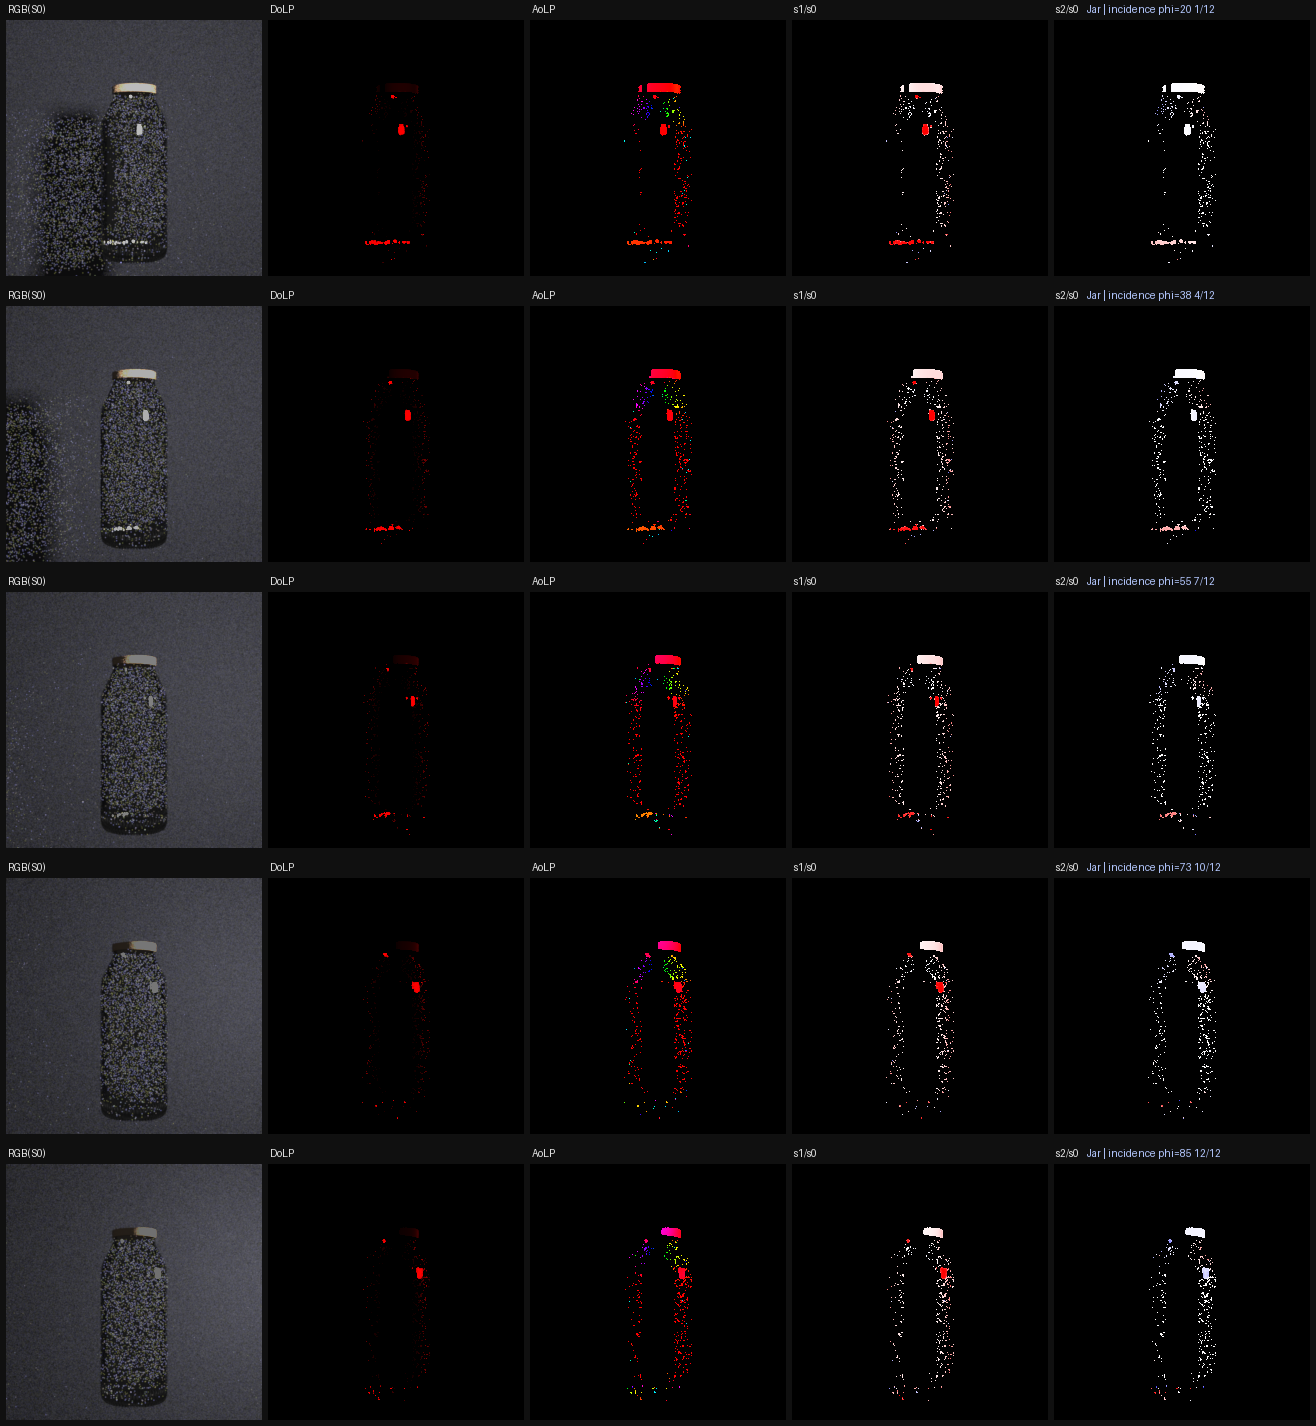
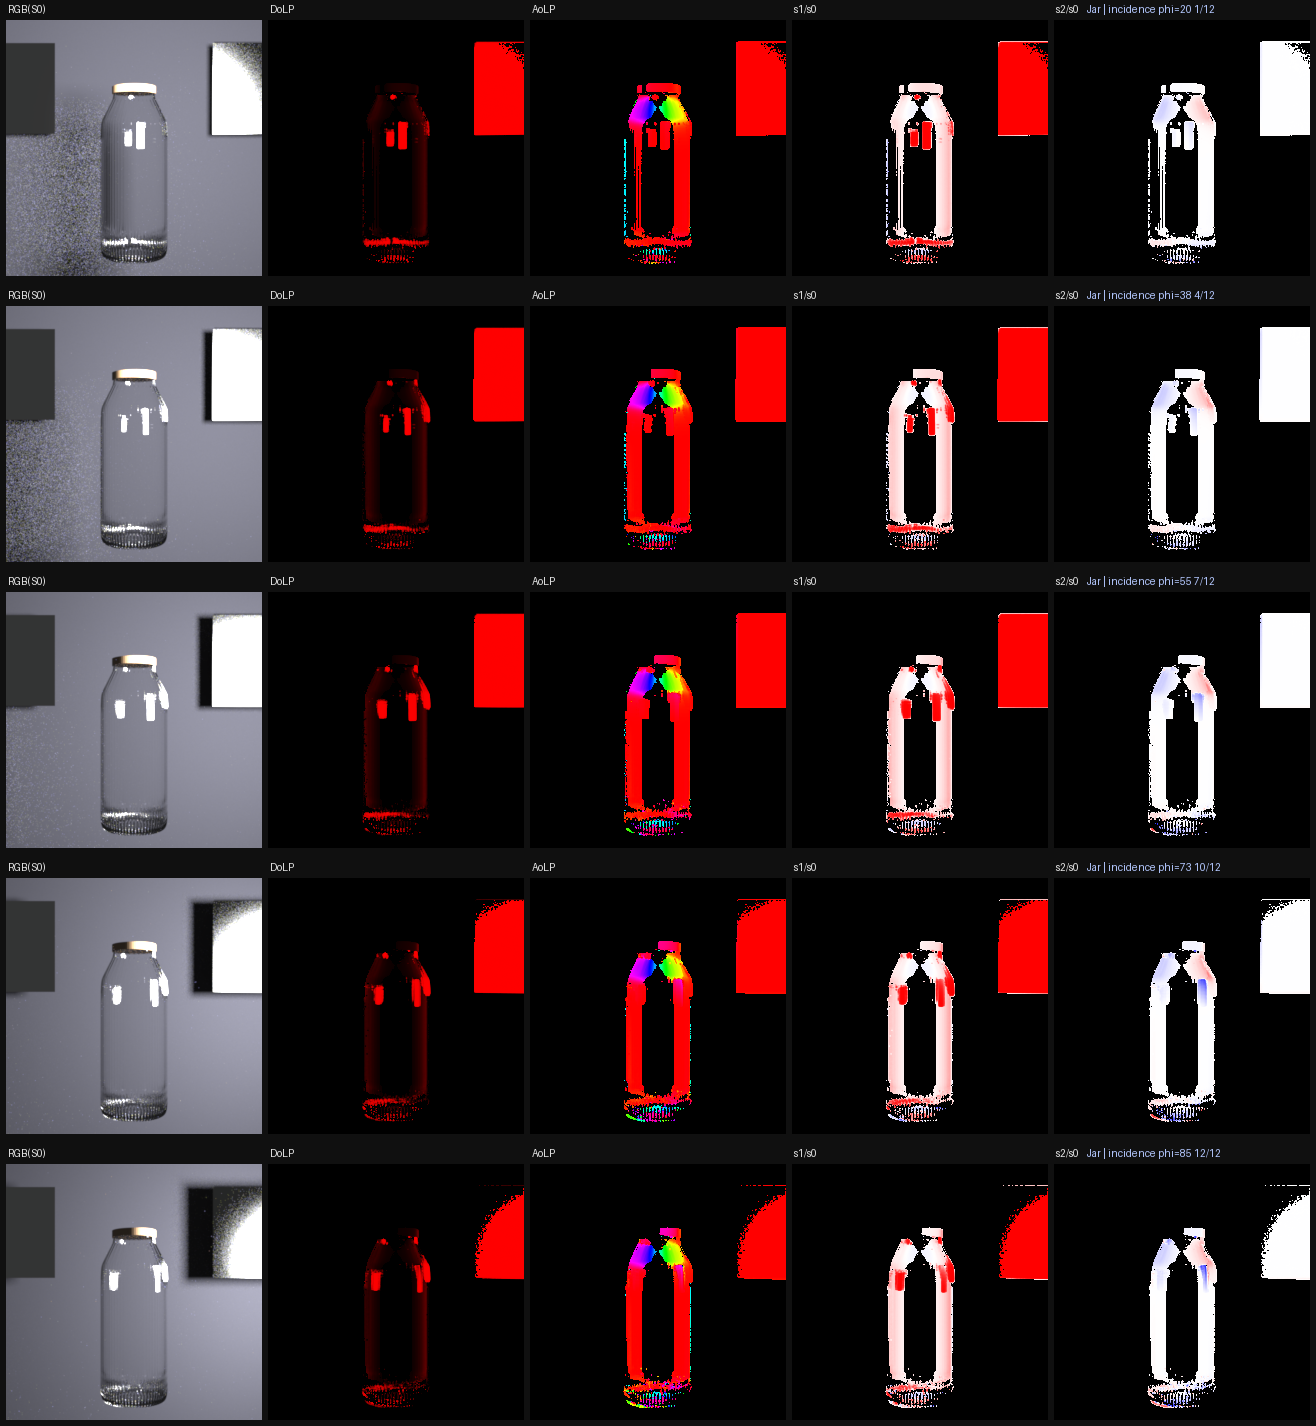
dev_report(0706): polarized_area emitter + polarization witnesses
- New render light: custom polarized_area emitter (emits already-polarized
  light so NEE works) replaces the area+polarizer combo. Curved-glass +
  diffuse-background scenes are dramatically cleaner (fireflies gone); DoLP
  unchanged (0.95). Plugin: modules/mitsuba3/src/emitters/polarized_area.cpp
  (committed in the mitsuba3 fork).
- Background witnesses in every frame: a bare mirror (reflects the polarized
  flash -> shows in DoLP/AoLP) and a mirror behind a fixed polarizer analyzer
  (brightness extinguishes as the illumination polarizer rotates -> proves the
  cast light is polarized and changing).
- Re-rendered all 5 objects x 2 modes with polarized_area + witnesses +
  multi-material at spp8000 (glass 12000).

diff --git a/dev_report/report_2026-07-06_optical_class_polarization.html b/dev_report/report_2026-07-06_optical_class_polarization.html
@@ -42,7 +42,7 @@
 <h2>2. 광학 클래스 요약 — RGB(S0) vs DoLP</h2>
 <figure>
   <img src="images/0706_optclass_summary.png" alt="RGB vs DoLP per optical class" style="max-width:560px;margin:0 auto">
-  <figcaption>대표 프레임 1장씩. RGB(S0)는 각 재질의 실제 색을 담는다(foodbox 인쇄 라벨, lampshade 분홍 직물 — glb UV로 베이크 텍스처 매핑). DoLP: <b>금속(tap)≈0.9 강함, 유리(jar) specular만, diffuse는 pplastic 코팅으로 약하게(foodbox~0.2, lampshade~0.06)</b>. 편광 세기가 optical class를 정렬한다. tvstand는 multi-material 분리 후 이 각도에선 나무 상판이 보여 약하지만, 금속 프레임은 metallic=0인데도 conductor로 강편광.</figcaption>
+  <figcaption>대표 프레임 1장씩(배경 wall + 좌우 witness 패치 포함). <code>polarized_area</code> emitter는 NEE가 살아있어 배경·투과 노이즈가 크게 준다. RGB(S0)는 각 재질의 실제 색을 담는다(foodbox 인쇄 라벨, lampshade 분홍 직물 — glb UV로 베이크 텍스처 매핑). DoLP: <b>금속(tap)≈0.9 강함, 유리(jar) specular만, diffuse는 pplastic 코팅으로 약하게(foodbox~0.2, lampshade~0.06)</b>. 편광 세기가 optical class를 정렬한다. tvstand는 multi-material 분리 후 이 각도에선 나무 상판이 보여 약하지만, 금속 프레임은 metallic=0인데도 conductor로 강편광.</figcaption>
 </figure>
 
 <h3>편광 지원 플러그인 (검증 빌드, <code>cuda_ad_spectral_polarized</code>)</h3>
@@ -58,12 +58,12 @@
 <div class="warn"><b>주의</b>: 투과형 microfacet <code>roughdielectric</code>과 <code>plastic</code>/<code>roughplastic</code>은 이 빌드에서 편광 Fresnel을 만들지 못한다(DoLP≡0). 유리는 <code>dielectric</code>(smooth), 도장/plastic/diffuse는 <code>pplastic</code>으로 주입해야 편광이 나온다. <code>render_material_closeups.py</code> 등 dielectric/plastic 주입 경로 점검 필요.</div>
 
 <h2>3. 움직이는 편광 광원 스윕 (오브젝트당 2종)</h2>
-<p>능동 편광 조명 = <b>area emitter + 그 앞의 linear polarizer</b>(delta spot/point는 편광판 투과 불가라 area 필수, polarizer는 emitter보다 크게). 두 모션:</p>
+<p>능동 편광 조명 = <b>커스텀 <code>polarized_area</code> emitter</b>(아래 §6). 배경에는 편광광이 실제로 뿌려지고 변하는지 보이는 <b>witness</b> 2개 — 좌: bare mirror(flash 편광을 반사 → DoLP/AoLP에 나타남), 우: mirror+고정 polarizer analyzer(<b>소광 witness</b>: 조명 편광각이 돌면 밝기가 밝→어둠→밝). 두 모션:</p>
 <ul>
 <li><b>입사각 궤도(orbit)</b>: flash를 오브젝트 주위로 이동(azimuth 20°→85°) → 국소 입사각이 grazing으로. 유리·plastic은 Brewster 부근서 DoLP 상승.</li>
 <li><b>polarizer 회전(polrot)</b>: flash 고정, 조명 polarizer θ 0→180° 회전 → specular 반사의 AoLP가 각도 추종.</li>
 </ul>
-<p>5패널 = RGB(S0) · DoLP · AoLP · s1/s0 · s2/s0. specular 마스크(S0&gt;0.04 &amp; DoLP&gt;0.05). spp8000(유리 16000).</p>
+<p>5패널 = RGB(S0) · DoLP · AoLP · s1/s0 · s2/s0. specular 마스크(S0&gt;0.04 &amp; DoLP&gt;0.05). spp8000(유리 12000). 광원은 <code>polarized_area</code>.</p>
 
 <h3>#1 metal — 수도꼭지</h3>
 <figure><img src="images/0706_optclass_tap_orbit.gif" alt="tap orbit"><figcaption>입사각 궤도. 금속 전면이 조명 편광을 보존해 DoLP≈0.9로 강하게 켜진다.</figcaption></figure>
@@ -96,7 +96,13 @@
 </table>
 <p><b>권장</b>: Infinigen import도 <code>.glb</code>를 source로 참조하고 <code>glb_texture_adapter</code>(또는 그 확장)를 태워서 UV·베이크 텍스처·per-material 분리를 렌더 경로에서 사용하도록 개선. blender export 단계에서 UV 보존 <code>.obj</code>를 쓰는 방법도 있으나, glb 경로 재사용이 기존 계약(OBJ + extracted_material)과 호환되어 더 간단하다.</p>
 
-<h2>6. 결론</h2>
+<h2>6. 광원 개선 — <code>polarized_area</code> emitter 플러그인</h2>
+<p><b>문제</b>: "area emitter + 앞의 <code>polarizer</code> 판" 조합은 편광판이 <b>NEE(직접광 shadow ray)를 막아</b>, 빛이 BSDF 샘플링 경로로만 들어와 고분산 → firefly. 특히 투명 유리는 심했다.</p>
+<p><b>해결</b>: <b>이미 편광된 빛을 직접 방출하는 커스텀 emitter</b>를 작성(<code>modules/mitsuba3/src/emitters/polarized_area.cpp</code>). area.cpp를 복제하고 <code>eval</code>/<code>sample_direction</code>/<code>eval_direction</code>의 <code>depolarizer</code>를 <b><code>theta</code>각 linear-polarizer Mueller</b>(방출방향 <code>si.wi</code> 기준, polarizer BSDF의 frame 레시피 재사용)로 교체. 파라미터 <code>radiance</code>·<code>theta</code>(deg). 별도 편광판 surface가 없어 <b>NEE가 살아있고</b>, 씬도 단순해진다.</p>
+<p><b>효과</b>: 편광은 동일(DoLP 0.95, area+polarizer와 일치)하면서, 곡면 유리+diffuse 배경 씬에서 <b>firefly/grain이 급감</b>. (flat 평판 테스트에선 차이가 작지만 — 그 경우 노이즈가 BSDF 분산 지배 — 실제 오브젝트 씬에서 큰 개선.) 빌드: <code>ninja polarized_area</code> → <code>plugins/polarized_area.so</code>.</p>
+<p>남은 유리 grain(투명 dielectric의 굴절 caustic)은 NEE로도 근본 제거되지 않아 spp로 완화. 필요 시 OptiX denoiser가 다음 후보.</p>
+
+<h2>7. 결론</h2>
 <ul>
 <li><b>편광은 optical class를 분리한다</b>: 금속(DoLP~0.9) &gt; 유리(specular만) &gt; diffuse(pplastic 약한 코팅 편광). RGB만으로는 안 보이는 구분이 편광 채널에서 드러난다.</li>
 <li><b>플러그인 트리오</b>: <code>conductor</code>(금속) + <code>dielectric</code>(유리) + <code>pplastic</code>(diffuse/plastic). <code>roughdielectric</code>·<code>roughplastic</code>은 편광 미지원(DoLP=0)이라 금지.</li>
